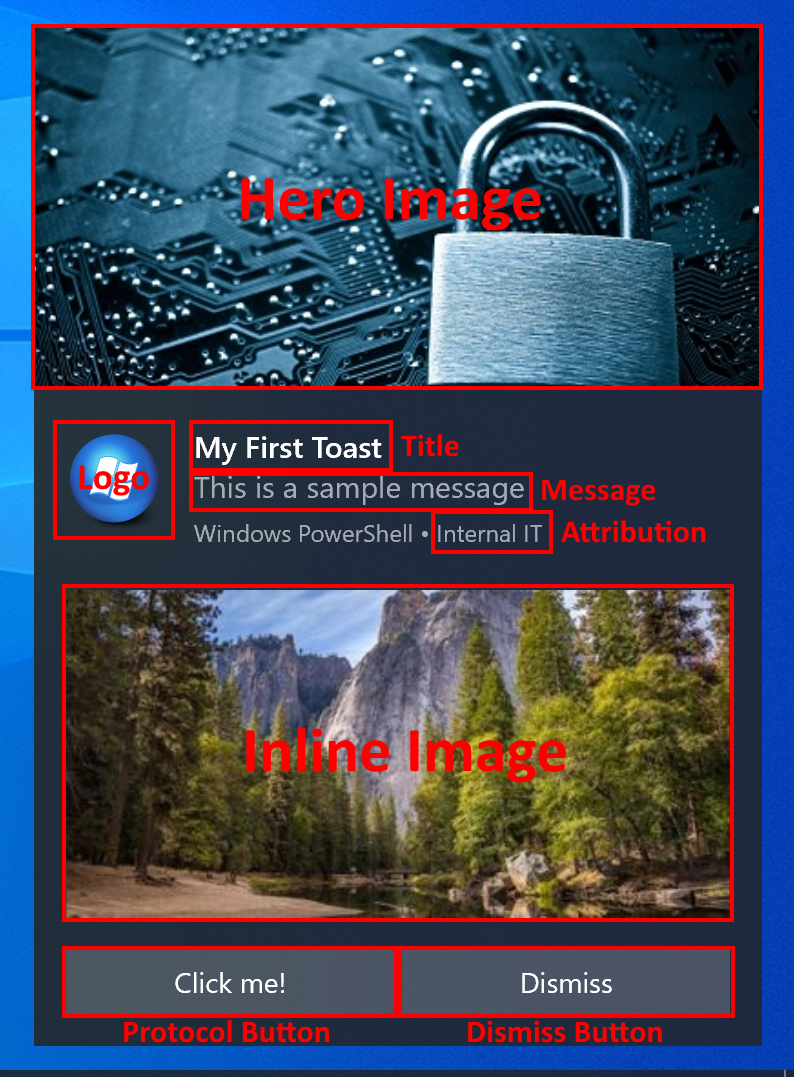
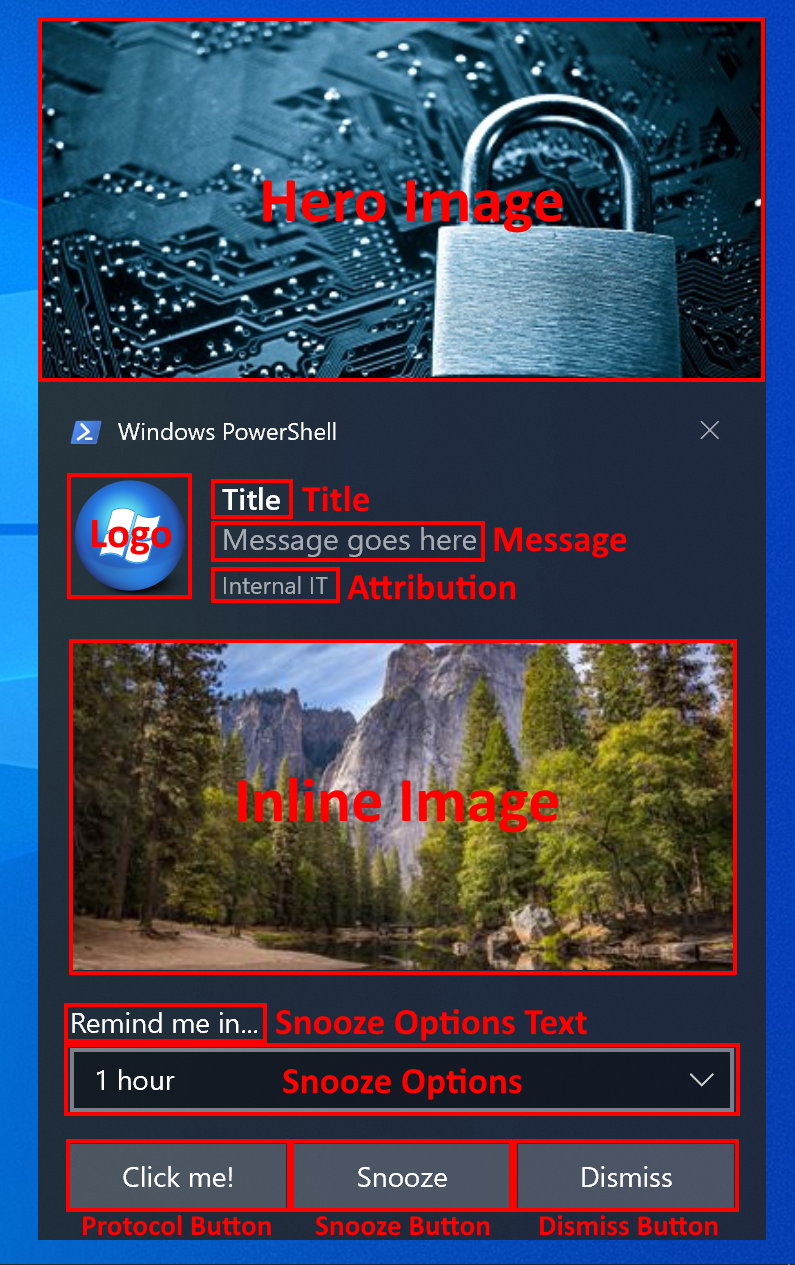
Added snooze functionality

diff --git a/README.md b/README.md
@@ -21,15 +21,17 @@ Windows PowerShell 5.1
 PowerShell 7
 
 ## What functionality does the script support?
-Currently the following options are supported
+Currently the following options are supported:
 
 * Hero image
 * Logo override
 * Title
 * Message
-* Single inline image
 * Attribution Text
-* A Protocol Button, e.g. a link to a website or file with optional custom text
+* Single inline image
+* A protocol Button, e.g. a link to a website or file, with optional custom button text
+* Custom snooze options, with optional header text and with optional custom pre-selection
+* A Snooze button, using default snooze or custom snooze options
 * A dismiss button
 
 ![Toast Image](./assets/exampleToast.png)
